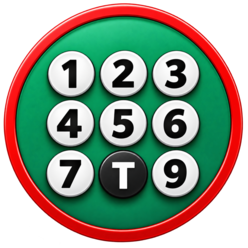
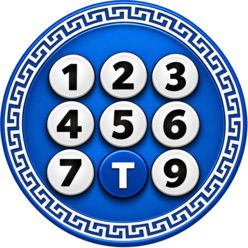
t9 greek keyboard initial build

diff --git a/README.md b/README.md
@@ -1,21 +1,21 @@
-# T9 BG Keyboard
+# T9 Greek Keyboard
 
-A Bulgarian and English multi-tap keyboard for Zepp OS.
+A Greek and English multi-tap keyboard for Zepp OS.
 
-T9 BG Keyboard brings a classic mobile phone-style typing experience to compatible Amazfit devices. Letters are grouped on 9 keys and selected by repeatedly tapping the corresponding key.
+T9 Greek Keyboard brings a classic mobile phone-style typing experience to compatible Amazfit devices. Letters are grouped on 9 keys and selected by repeatedly tapping the corresponding key.
 
 The keyboard supports Bulgarian and English, Shift, Caps Lock, numbers, symbols, and switching to other Zepp OS input methods.
 
 ## Features
 
-- 🇧🇬 Bulgarian multi-tap layout
+- GR Greek multi-tap layout
 - 🇬🇧 English multi-tap layout
 - Classic 9-key typing
 - Shift for a single uppercase letter
 - Caps Lock (longpress Shift Button to activate it)
 - Additional symbols (.,?!/@€-_)
 - Numbers 0–9
-- Quick Bulgarian / English switching
+- Quick Greek / English switching
 - Access to other installed Zepp OS keyboards (longpress globe icon)
 - Change typing speed (hold X or ✓ keys)
 - Support for round and square displays
@@ -23,7 +23,7 @@ The keyboard supports Bulgarian and English, Shift, Caps Lock, numbers, symbols,
 
 ## Keyboard Layout
 
-### Bulgarian
+### Greek
 
 | Key | Characters |
 |-----|------------|
@@ -59,7 +59,7 @@ For example:
 
 `A → B → C`
 
-or in Bulgarian:
+or in Greek:
 
 `А → Б → В → Г`
 
@@ -93,7 +93,7 @@ Hold the **Space** key to enter:
 
 **Tap the Globe button**
 
-Switches between the built-in Bulgarian and English layouts:
+Switches between the built-in Greek and English layouts:
 
 `BG ↔ EN`
 
